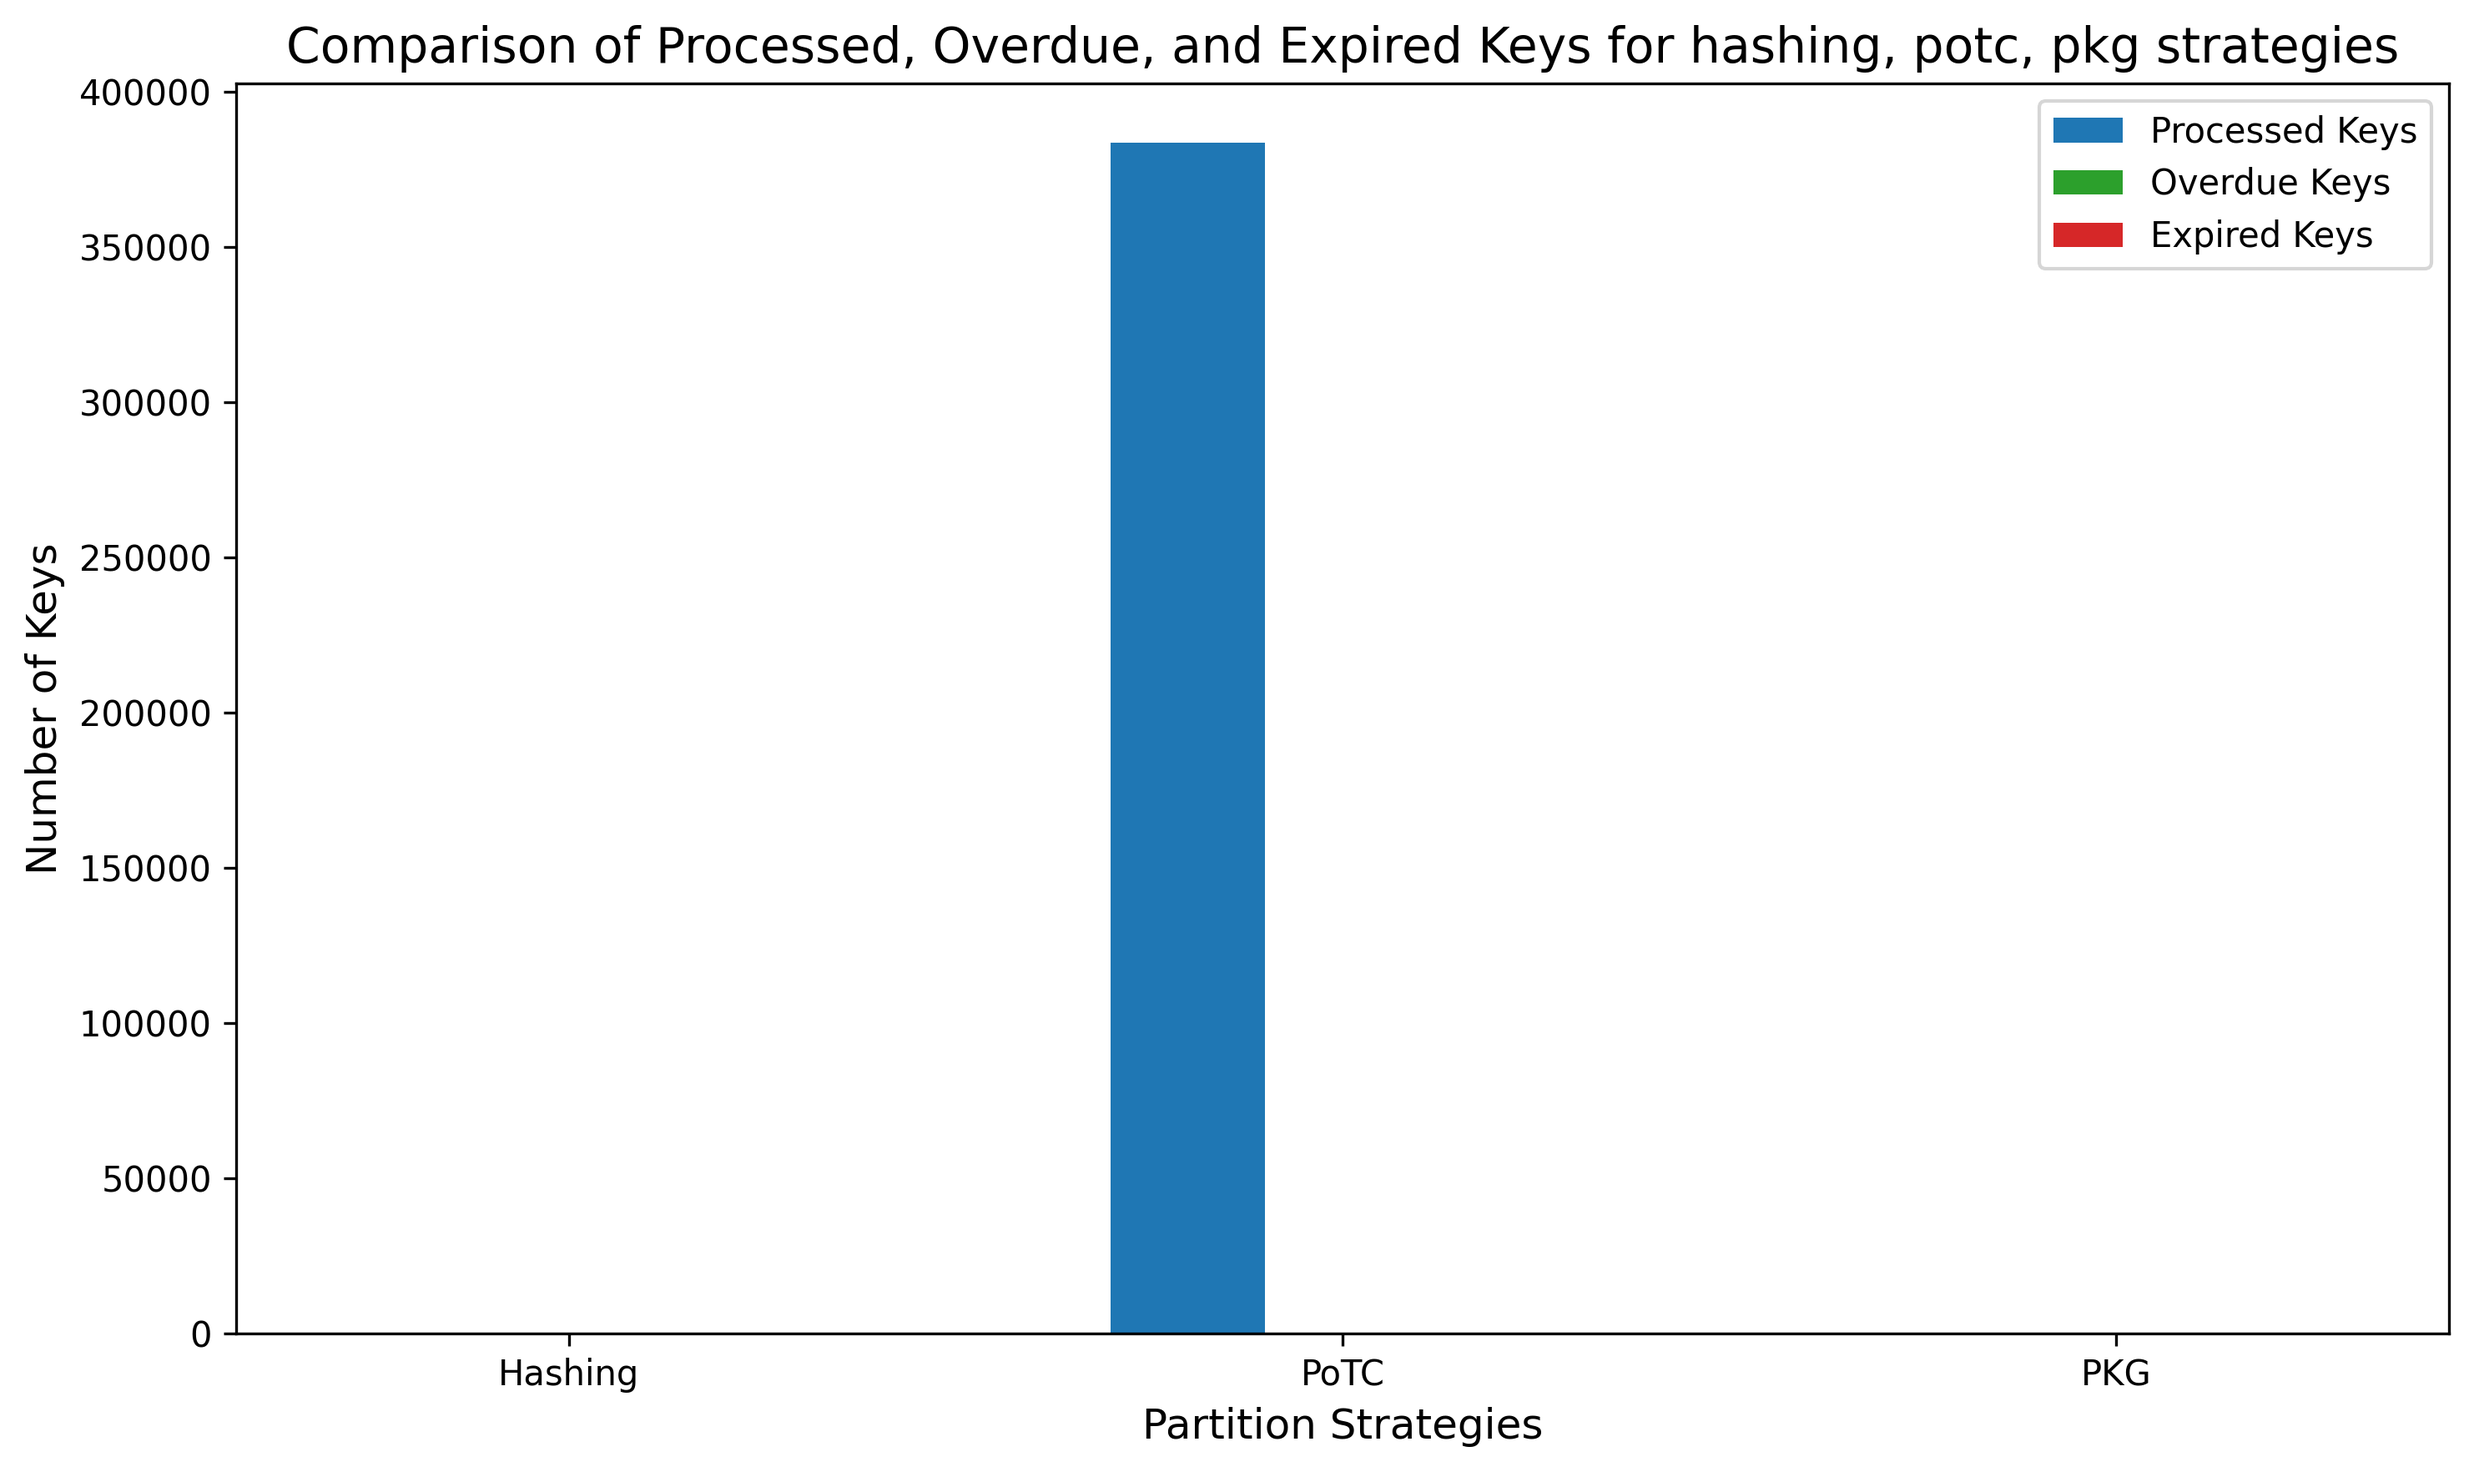
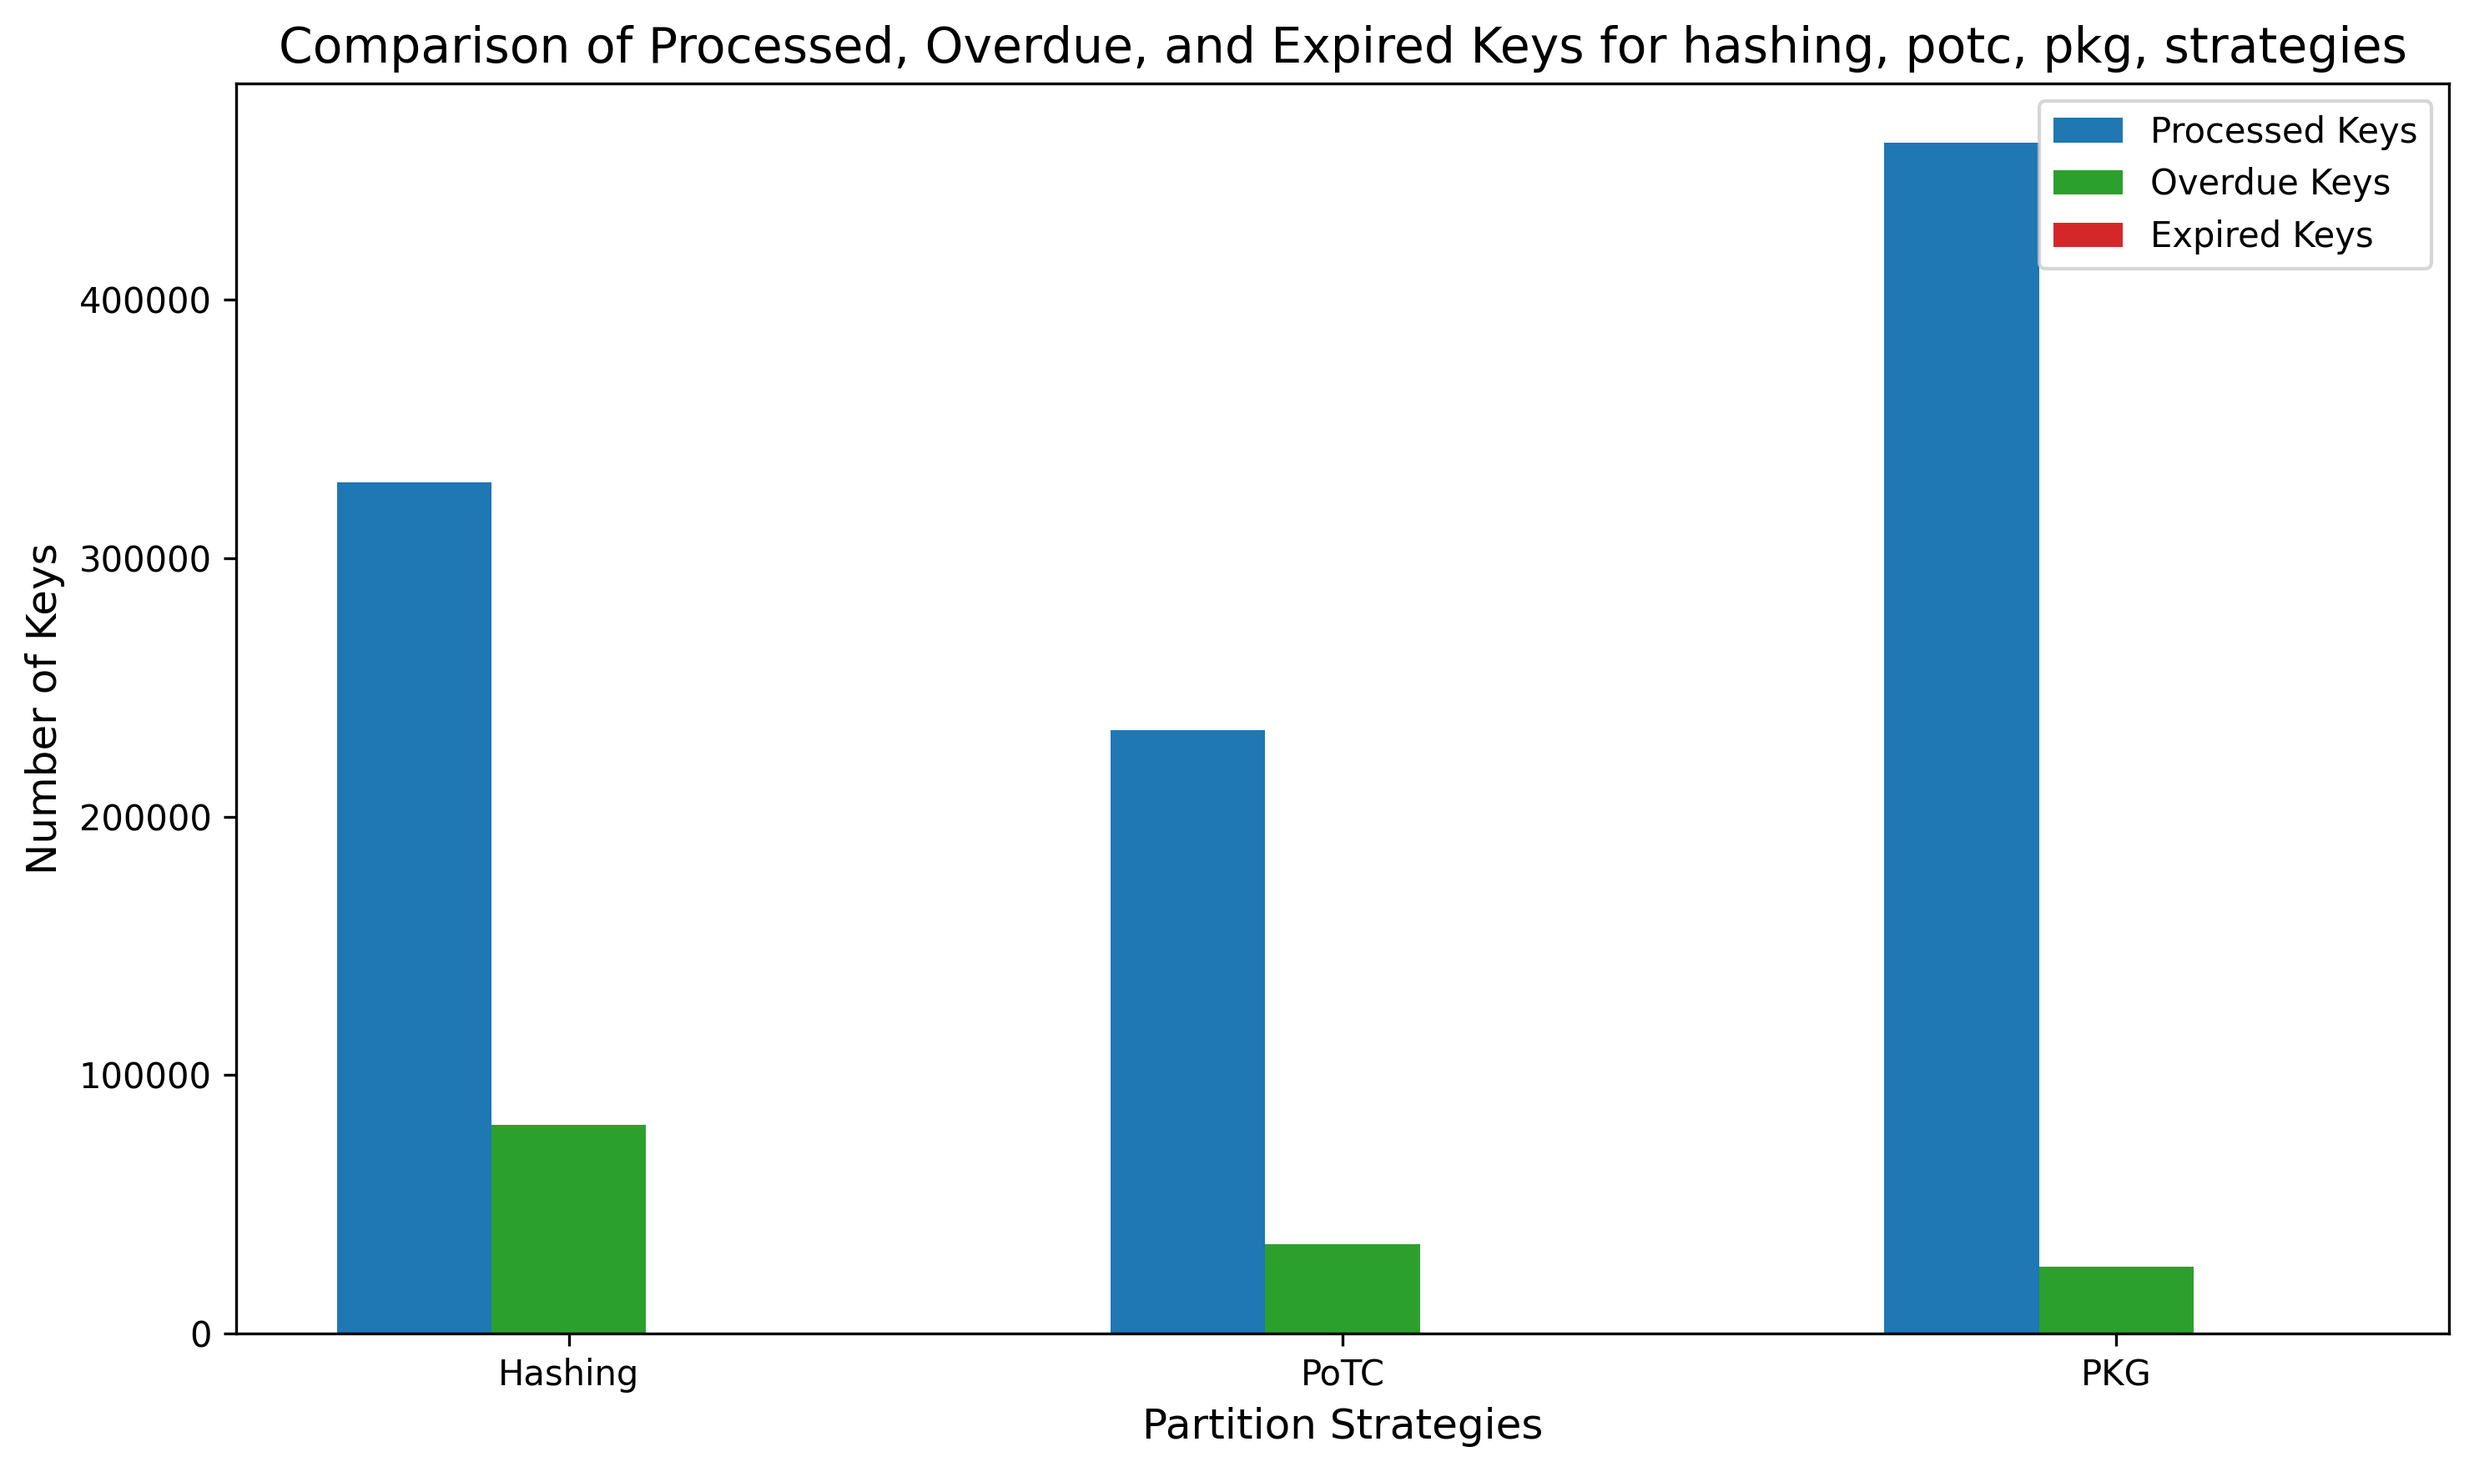
Add no background figures

diff --git a/figures/rm_background.py b/figures/rm_background.py
@@ -26,12 +26,22 @@ def remove_white_background(image_path, output_path, threshold=200):
 
 
 # Usage
-# remove_white_background(
-#     "../experiments/Scenario6 - Partition Strategies/Scenario1 - comparison/worker_load_comparison_top2_stage2.png",
-#     "../experiments/Scenario6 - Partition Strategies/Scenario1 - comparison/worker_load_comparison_top2_stage2_no_background.png",
-# )
+remove_white_background(
+    "../experiments/Scenario6 - Partition Strategies/Scenario5 - comparison/key_stats_stage1_top2.png",
+    "../experiments/Scenario6 - Partition Strategies/Scenario5 - comparison/key_stats_stage1_top2_no_background.png",
+)
 
 remove_white_background(
-    "../experiments/topology2/Scenario1/worker_load_comparison_max.png",
-    "../experiments/topology2/Scenario1/worker_load_comparison_max_no_background.png",
+    "../experiments/Scenario6 - Partition Strategies/Scenario5 - comparison/stage_cycles_comparison.png",
+    "../experiments/Scenario6 - Partition Strategies/Scenario5 - comparison/stage_cycles_comparison_no_background.png",
 )
+
+# remove_white_background(
+#     "../experiments/topology2/Scenario1/worker_load_comparison_max.png",
+#     "../experiments/topology2/Scenario1/worker_load_comparison_max_no_background.png",
+# )
+
+# remove_white_background(
+#     "../experiments/topology2/Scenario1/worker_load_comparison_max.png",
+#     "../experiments/topology2/Scenario1/worker_load_comparison_max_no_background.png",
+# )
